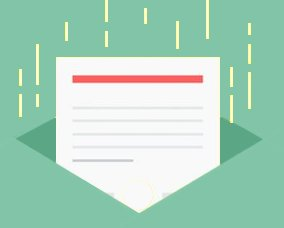
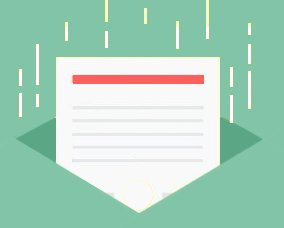
retouches image on subscribe page

diff --git a/articles/static/css/index.css b/articles/static/css/index.css
@@ -107,6 +107,10 @@ body {
   -ms-font-size: 1vw;
   -o-font-size: 1vw;
   border: 1px solid #0099ff;
+  -webkit-border: 1px solid #0099ff; 
+  -moz-border: 1px solid #0099ff; 
+  -ms-border: 1px solid #0099ff; 
+  -o-border: 1px solid #0099ff;
   padding-left: 2%;
   -webkit-padding-left: 2%;
   -moz-padding-left: 2%;
@@ -150,6 +154,10 @@ body {
   -ms-border-bottom-right-radius: 2em;
   -o-border-bottom-right-radius: 2vw;
   border: 1px solid #0099ff;;
+  -webkit-border: 1px solid #0099ff;; 
+  -moz-border: 1px solid #0099ff;; 
+  -ms-border: 1px solid #0099ff;; 
+  -o-border: 1px solid #0099ff;;
   line-height: 2vw;
   -webkit-line-height: 2vw;
   -moz-line-height: 2vw;
@@ -212,6 +220,10 @@ body {
 
 #featuredImage{
   width: 30%;
+  -webkit-width: 30%; 
+  -moz-width: 30%; 
+  -ms-width: 30%; 
+  -o-width: 30%;
 }
 
 #categoryContainer {
@@ -344,6 +356,10 @@ li {
   -o-padding: 2%;
   float: left;
   height: 25vw;
+  -webkit-height: 25vw; 
+  -moz-height: 25vw; 
+  -ms-height: 25vw; 
+  -o-height: 25vw;
 }
 
 .articleLink {
@@ -373,12 +389,20 @@ li {
   -ms-margin-top: 2%;
   -o-margin-top: 2%;
   bottom: 40%;
+  -webkit-bottom: 40%; 
+  -moz-bottom: 40%; 
+  -ms-bottom: 40%; 
+  -o-bottom: 40%;
   position: absolute;
 }
 
 .article_container {
   position: relative;
   height: 100%;
+  -webkit-height: 100%; 
+  -moz-height: 100%; 
+  -ms-height: 100%; 
+  -o-height: 100%;
 }
 
 .articleAuthor {
@@ -390,6 +414,10 @@ li {
   -o-font-size: 1.1vw;
   position: absolute;
   bottom: 30%;
+  -webkit-bottom: 30%; 
+  -moz-bottom: 30%; 
+  -ms-bottom: 30%; 
+  -o-bottom: 30%;
 }
 
 .articleDate {
@@ -400,5 +428,9 @@ li {
   -ms-font-size: 1.1vw;
   -o-font-size: 1.1vw;
   bottom: -4%;
+  -webkit-bottom: -4%; 
+  -moz-bottom: -4%; 
+  -ms-bottom: -4%; 
+  -o-bottom: -4%;
   position: absolute;
 }

diff --git a/articles/static/css/article.css b/articles/static/css/article.css
@@ -112,6 +112,10 @@ body {
   -ms-font-size: 1vw;
   -o-font-size: 1vw;
   border: 1px solid #0099ff;
+  -webkit-border: 1px solid #0099ff; 
+  -moz-border: 1px solid #0099ff; 
+  -ms-border: 1px solid #0099ff; 
+  -o-border: 1px solid #0099ff;
   padding-left: 2%;
   -webkit-padding-left: 2%;
   -moz-padding-left: 2%;
@@ -155,6 +159,10 @@ body {
   -ms-border-bottom-right-radius: 2em;
   -o-border-bottom-right-radius: 2vw;
   border: 1px solid #0099ff;;
+  -webkit-border: 1px solid #0099ff;; 
+  -moz-border: 1px solid #0099ff;; 
+  -ms-border: 1px solid #0099ff;; 
+  -o-border: 1px solid #0099ff;;
   line-height: 2vw;
   -webkit-line-height: 2vw;
   -moz-line-height: 2vw;
@@ -242,7 +250,15 @@ body {
 
 #articleImage {
   width: 50%;
+  -webkit-width: 50%; 
+  -moz-width: 50%; 
+  -ms-width: 50%; 
+  -o-width: 50%;
   margin-left: 25%;
+  -webkit-margin-left: 25%; 
+  -moz-margin-left: 25%; 
+  -ms-margin-left: 25%; 
+  -o-margin-left: 25%;
 }
 
 #articleContent {
@@ -279,6 +295,10 @@ body {
   -ms-line-height: 130%;
   -o-line-height: 130%;
   text-shadow: 0px 1px 2px #8c8c8c;
+  -webkit-text-shadow: 0px 1px 2px #8c8c8c; 
+  -moz-text-shadow: 0px 1px 2px #8c8c8c; 
+  -ms-text-shadow: 0px 1px 2px #8c8c8c; 
+  -o-text-shadow: 0px 1px 2px #8c8c8c;
 }
 
 .twitter-share-button {

diff --git a/articles/static/css/resources.css b/articles/static/css/resources.css
@@ -107,6 +107,10 @@ body {
   -ms-font-size: 1vw;
   -o-font-size: 1vw;
   border: 1px solid #0099ff;
+  -webkit-border: 1px solid #0099ff; 
+  -moz-border: 1px solid #0099ff; 
+  -ms-border: 1px solid #0099ff; 
+  -o-border: 1px solid #0099ff;
   padding-left: 2%;
   -webkit-padding-left: 2%;
   -moz-padding-left: 2%;
@@ -150,6 +154,10 @@ body {
   -ms-border-bottom-right-radius: 2em;
   -o-border-bottom-right-radius: 2vw;
   border: 1px solid #0099ff;;
+  -webkit-border: 1px solid #0099ff;; 
+  -moz-border: 1px solid #0099ff;; 
+  -ms-border: 1px solid #0099ff;; 
+  -o-border: 1px solid #0099ff;;
   line-height: 2vw;
   -webkit-line-height: 2vw;
   -moz-line-height: 2vw;

diff --git a/articles/static/css/subscribe.css b/articles/static/css/subscribe.css
@@ -107,6 +107,10 @@ body {
   -ms-font-size: 1vw;
   -o-font-size: 1vw;
   border: 1px solid #0099ff;
+  -webkit-border: 1px solid #0099ff; 
+  -moz-border: 1px solid #0099ff; 
+  -ms-border: 1px solid #0099ff; 
+  -o-border: 1px solid #0099ff;
   padding-left: 2%;
   -webkit-padding-left: 2%;
   -moz-padding-left: 2%;
@@ -150,6 +154,10 @@ body {
   -ms-border-bottom-right-radius: 2em;
   -o-border-bottom-right-radius: 2vw;
   border: 1px solid #0099ff;;
+  -webkit-border: 1px solid #0099ff;; 
+  -moz-border: 1px solid #0099ff;; 
+  -ms-border: 1px solid #0099ff;; 
+  -o-border: 1px solid #0099ff;;
   line-height: 2vw;
   -webkit-line-height: 2vw;
   -moz-line-height: 2vw;

diff --git a/static/css/article.css b/static/css/article.css
@@ -107,6 +107,10 @@ body {
   -ms-font-size: 1vw;
   -o-font-size: 1vw;
   border: 1px solid #0099ff;
+  -webkit-border: 1px solid #0099ff; 
+  -moz-border: 1px solid #0099ff; 
+  -ms-border: 1px solid #0099ff; 
+  -o-border: 1px solid #0099ff;
   padding-left: 2%;
   -webkit-padding-left: 2%;
   -moz-padding-left: 2%;
@@ -150,6 +154,10 @@ body {
   -ms-border-bottom-right-radius: 2em;
   -o-border-bottom-right-radius: 2vw;
   border: 1px solid #0099ff;;
+  -webkit-border: 1px solid #0099ff;; 
+  -moz-border: 1px solid #0099ff;; 
+  -ms-border: 1px solid #0099ff;; 
+  -o-border: 1px solid #0099ff;;
   line-height: 2vw;
   -webkit-line-height: 2vw;
   -moz-line-height: 2vw;

diff --git a/static/css/index.css b/static/css/index.css
@@ -107,6 +107,10 @@ body {
   -ms-font-size: 1vw;
   -o-font-size: 1vw;
   border: 1px solid #0099ff;
+  -webkit-border: 1px solid #0099ff; 
+  -moz-border: 1px solid #0099ff; 
+  -ms-border: 1px solid #0099ff; 
+  -o-border: 1px solid #0099ff;
   padding-left: 2%;
   -webkit-padding-left: 2%;
   -moz-padding-left: 2%;
@@ -150,6 +154,10 @@ body {
   -ms-border-bottom-right-radius: 2em;
   -o-border-bottom-right-radius: 2vw;
   border: 1px solid #0099ff;;
+  -webkit-border: 1px solid #0099ff;; 
+  -moz-border: 1px solid #0099ff;; 
+  -ms-border: 1px solid #0099ff;; 
+  -o-border: 1px solid #0099ff;;
   line-height: 2vw;
   -webkit-line-height: 2vw;
   -moz-line-height: 2vw;
